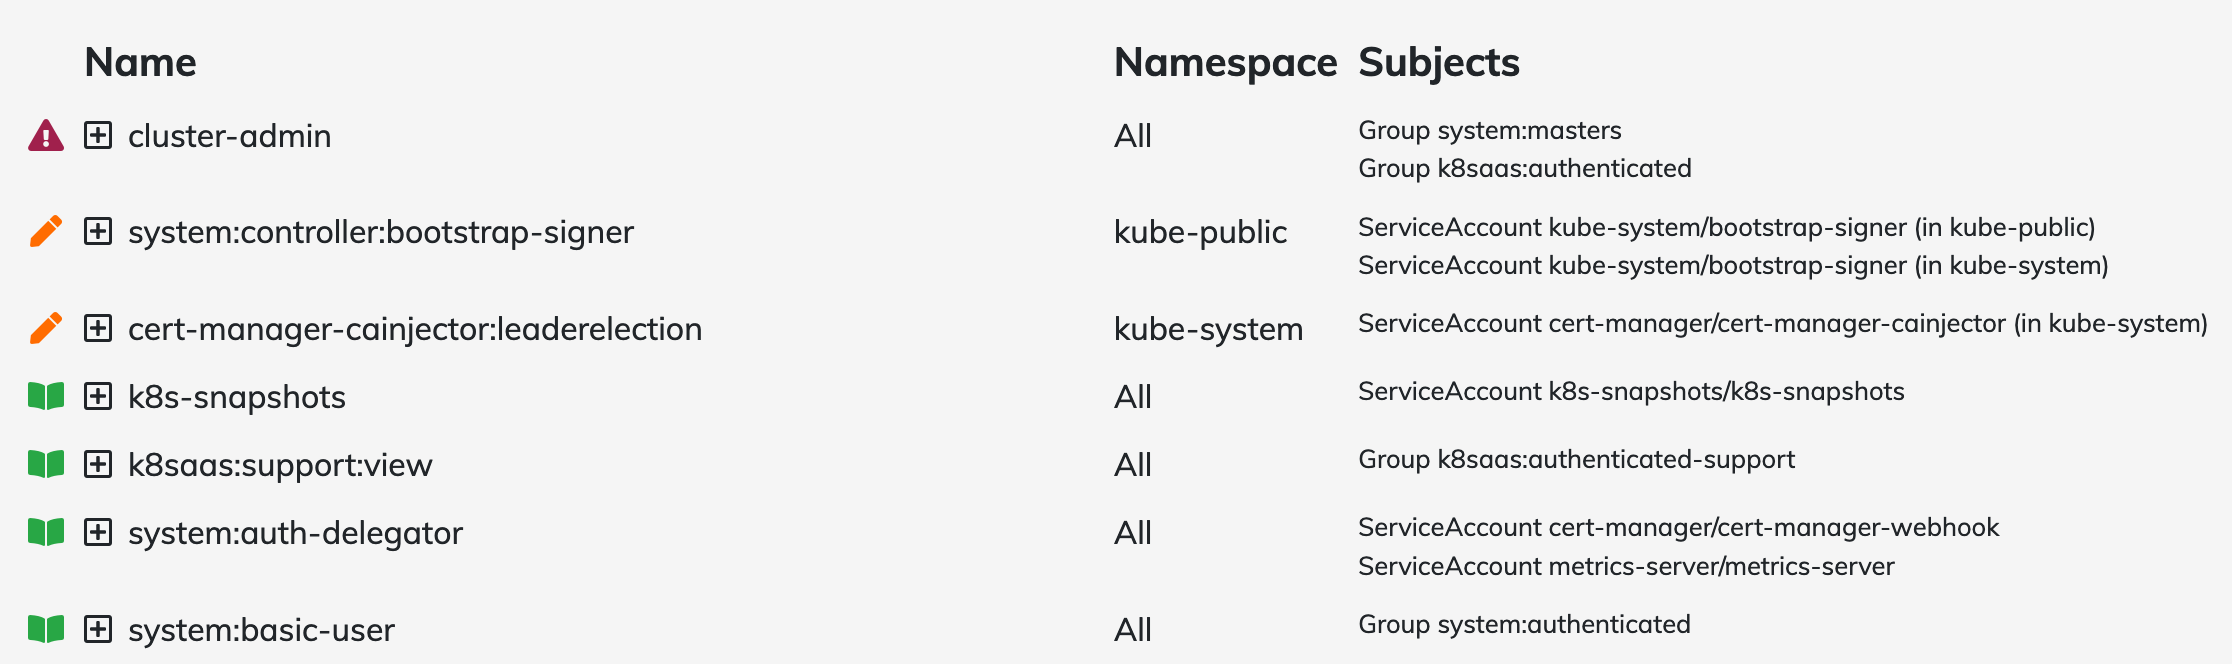
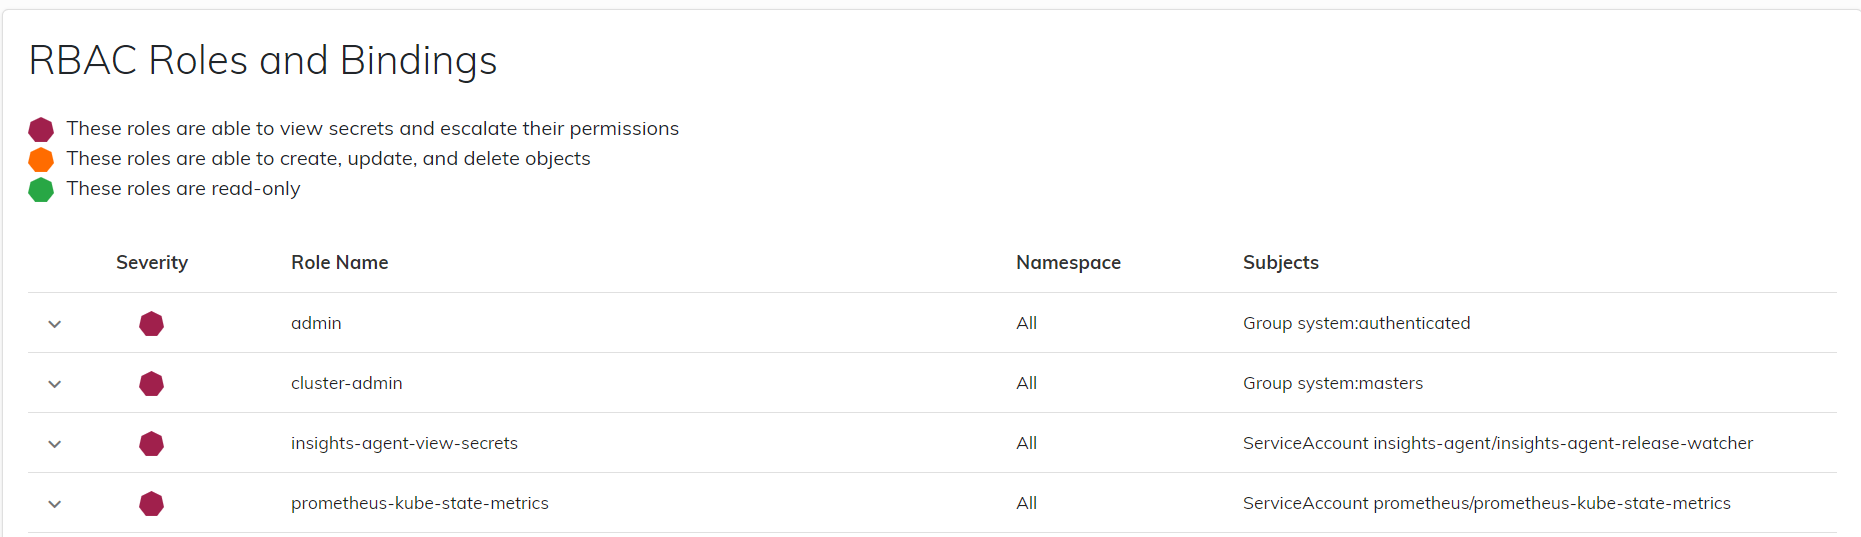
Update screenshots

diff --git a/features/rbac.md b/features/rbac.md
@@ -5,12 +5,6 @@
 The RBAC tab shows you a list of `Roles` and `ClusterRoles` in your cluster.
 It ranks these by their level of access:
 
-<i class="text-danger fa fa-fw fa-exclamation-triangle"></i> These roles are able to access secrets or edit RBAC permissions.
-
-<i class="text-warning fa fa-fw fa-pen"></i> These roles are able to make changes to the cluster.
-
-<i class="text-success fa fa-fw fa-book-open"></i> These roles are only able to read resources that aren't secrets.
-
 Roles that don't have any associated bindings are treated as
 being safe, and will appear below any roles with bindings.
 
